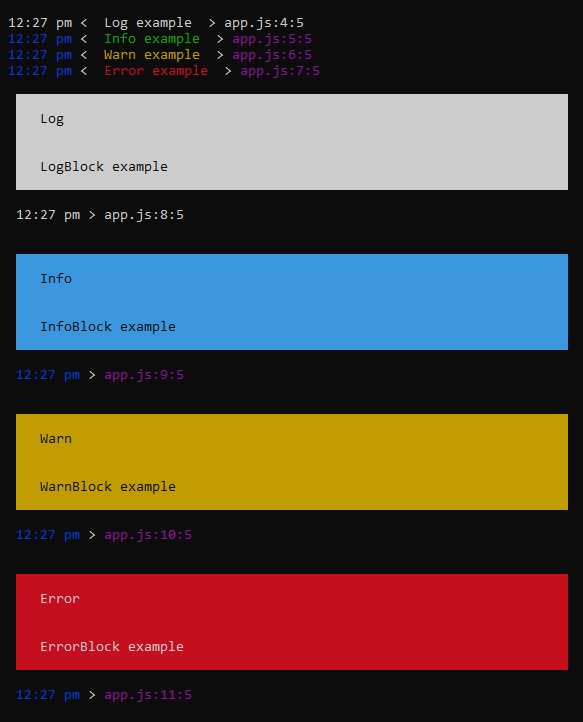
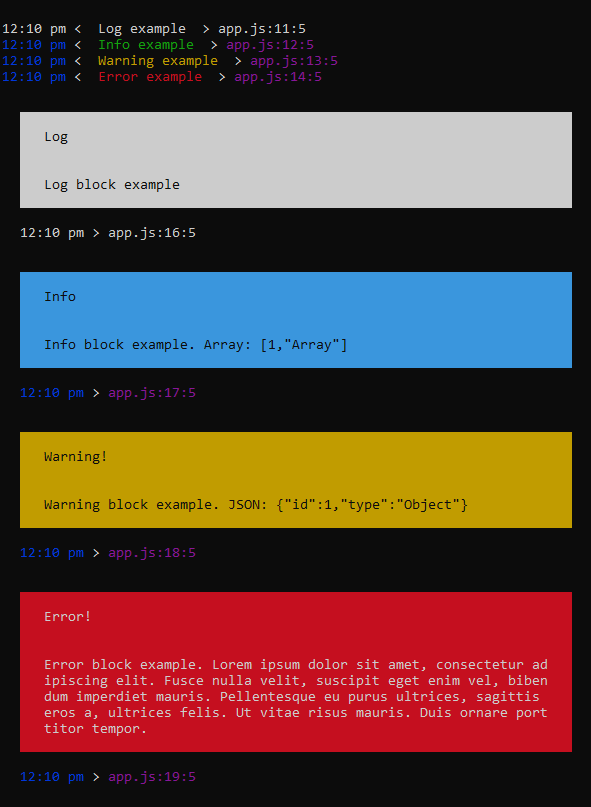
[DOCS]: Update

Changed region(s): [[0.0, 0.3352, 0.988, 0.9751], [0.0, 0.0305, 0.988, 0.3047]]

diff --git a/README.md b/README.md
@@ -15,17 +15,19 @@ A tiny library that creates beautiful logging.
 
 Prints your message, time and position in the code:
 
-    eyecatcher.log('Hello World!');
-    eyecatcher.info('Hello Info!');
-    eyecatcher.warn('Hello Warn!');
-    eyecatcher.error('Hello Error!');
+    eyecatcher.log('Log', 'example');
+    eyecatcher.info('Info', 'example');
+    eyecatcher.warn('Warning example');
+    eyecatcher.error('Error example');
 
 Prints a block with your message:
 
-    eyecatcher.logBlock('Hello Big World!');
-    eyecatcher.infoBlock('Hello Big Info!');
-    eyecatcher.warnBlock('Hello Big Warn!');
-    eyecatcher.errorBlock('Hello Big Error!');
+    eyecatcher.logBlock('Log block example');
+    eyecatcher.infoBlock('Info block example. Array:', yourArray);
+    eyecatcher.warnBlock('Warning block example. JSON:', yourJson);
+    eyecatcher.errorBlock('Error block example.');
+
+You can use an array or an object.
 
 ## Examples
 
